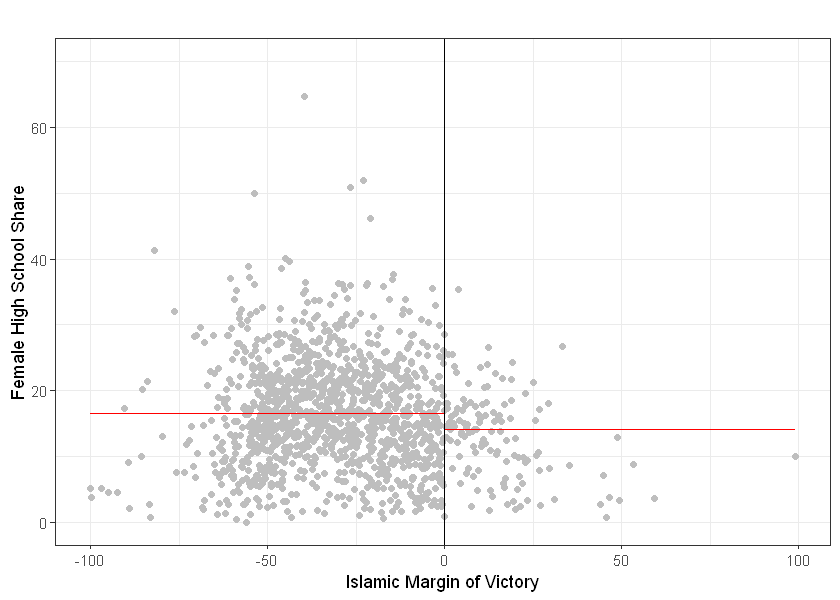
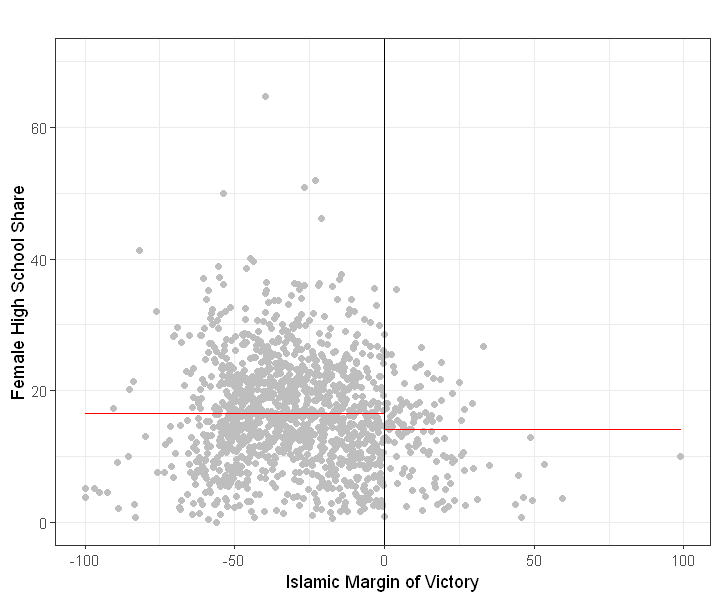
deploy: 396d1e3b97988b4a0e1b852d64de2cf9e21d54cc

diff --git a/notebooks/RDD_R.html b/notebooks/RDD_R.html
@@ -442,7 +442,7 @@ D_i= \left\{
 <div class="cell tag_hide-input docutils container">
 <div class="cell_input docutils container">
 <div class="highlight-r notranslate"><div class="highlight"><pre><span></span><span class="c1">#install.packages(&#39;rdrobust&#39;)  #install rbrobust if needed</span>
-<span class="nf">options</span><span class="p">(</span><span class="n">repr.plot.width</span><span class="o">=</span><span class="m">7</span><span class="p">,</span> <span class="n">repr.plot.height</span><span class="o">=</span><span class="m">5</span><span class="p">)</span> <span class="c1">#control the size of R plots in jupyter</span>
+<span class="nf">options</span><span class="p">(</span><span class="n">repr.plot.width</span><span class="o">=</span><span class="m">6</span><span class="p">,</span> <span class="n">repr.plot.height</span><span class="o">=</span><span class="m">5</span><span class="p">)</span> <span class="c1">#control the size of R plots in jupyter</span>
 </pre></div>
 </div>
 </div>
